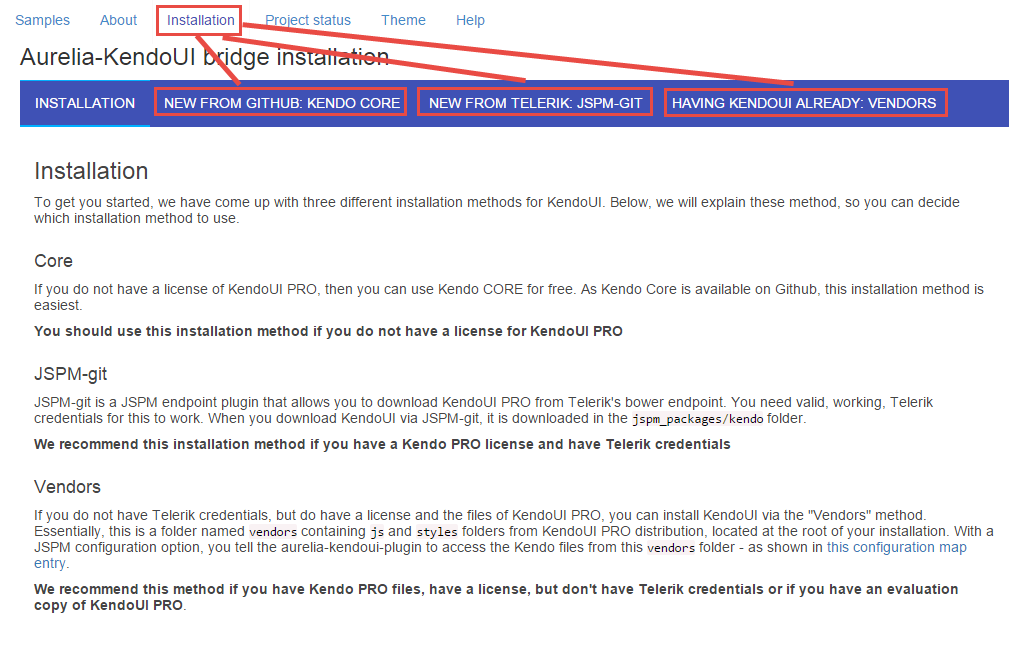
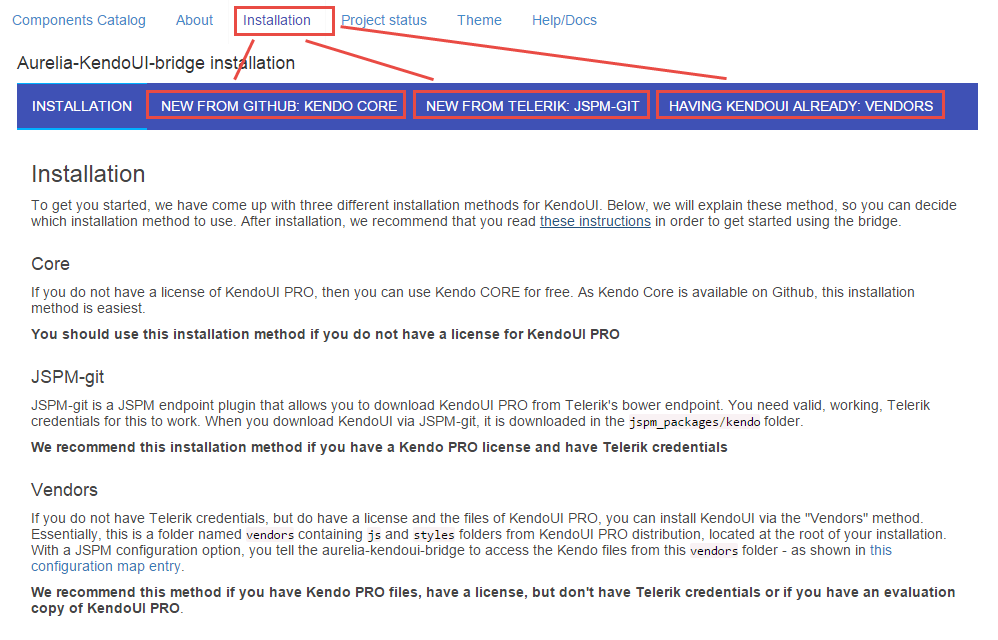
chore(sample help)
Update online help pages to fit the current look and feel

diff --git a/sample/src/help/docs/about-this-application/components-catalog.md b/sample/src/help/docs/about-this-application/components-catalog.md
@@ -1,11 +1,10 @@
 <br>
 ### 3. Catalog of KendoUI controls as Aurelia components.
-<br>
+
 This is the most likely fashion this application is being used. Invoked via URL: **<a href="http://aurelia-ui-toolkits.github.io/demo-kendo">http://aurelia-ui-toolkits.github.io/demo-kendo</a>** the application renders the view shown below, which shows the likely most interesting control **grid** by default.
 
-<br>
 <p align=center>
-  <img src="http://i.imgur.com/WEdRlxo.png"></img>
+  <img src="http://i.imgur.com/3AWmKbp.png"></img>
 <br>
   Image 1
 </p>
@@ -15,9 +14,8 @@ This is the most likely fashion this application is being used. Invoked via URL:
 The click on **Samples** menu item (as shown on Image 1 above) results with the Aurelia KendoUI Controls Catalog "landing" (default) page which depicts the KendoUI basic grid sample (again as shown on Image 1 above). In addition to rendering the grid, the Aurelia KendoUI Controls Catalog also shows the **Samples Toolbar**, which shows all categories of controls, with the **MOST POPULAR** category being select as default. At the moment, this category has only grid control selected as its own default - which explains why is the click on that category results with the same view as it is rendered initially
 <br>
 <br>
-
 <p align=center>
-  <img src="http://i.imgur.com/toJyBpf.png"></img>
+  <img src="http://i.imgur.com/XOL9VB5.png"></img>
 <br>
   Image 2
 </p>
@@ -29,7 +27,7 @@ Selecting other items from the Samples Toolbar will result with the appearance o
 <br>
 
 <p align=center>
-  <img src="http://i.imgur.com/DrIe47y.png"></img>
+  <img src="http://i.imgur.com/96pFFwU.png"></img>
  <br>
 Image 3
 </p>
@@ -41,7 +39,7 @@ Finally, selecting the **STOCK CHARTS** toolbar item, results with the the view 
 <br>
 
 <p align=center>
-  <img src="http://i.imgur.com/f3FjA60.png"></img>
+  <img src="http://i.imgur.com/bMUXUjL.png"></img>
  <br><br>
 Image 4
 </p>

diff --git a/sample/src/help/docs/about-this-application/installation.md b/sample/src/help/docs/about-this-application/installation.md
@@ -10,12 +10,10 @@ You could already have the KendoUI PRO license, or you plan to download the Kend
 The other two alternatives are variants of the same idea - grab the free copy of a free subset of KendoUI controls set, often referred to as Kendo core. If you want to take the **[Github route](https://github.com/telerik/kendo-ui-core)**, select the NEW FROM GITHUB: KENDO CORE tab. The last alternative described in NEW FROM GITHUB: JSPM-GIT tab handles the case where you want to fetch KendoUI core from **[Telerik's website using bower](http://docs.telerik.com/kendo-ui/intro/installation/bower-install#install-bower-packages)**
 
 The screen shot below depicts the Aurelia-KendoUI-bridge **[Installation page](#/installation)**
-
 <br>
 <br>
-
 <p align=center>
-  <img src="http://i.imgur.com/zzCsWdk.png"></img>
+  <img src="http://i.imgur.com/aYIztzp.png"></img>
  <br><br>
 Image 1
 </p>

diff --git a/sample/src/help/docs/about-this-application/navigation.md b/sample/src/help/docs/about-this-application/navigation.md
@@ -3,11 +3,11 @@
 ### 2. Navigation guide
 <br>
 <br>
-The order of Help Documents sections:
+The order of Help Documents section, outlined on the Image 1 below:
 <br><br>
 
 <p align=center>
-  <img src="http://i.imgur.com/OFHR4Aw.png"></img>
+  <img src="http://i.imgur.com/7a11YNP.png"></img>
 <br>
   Image 1
 </p>

diff --git a/sample/src/help/docs/about-kendoui/why-choose-kendoui.md b/sample/src/help/docs/about-kendoui/why-choose-kendoui.md
@@ -21,5 +21,4 @@ Touch support, easy mobile rendering, responsive capabilities and integration wi
 
 Apply one of the 16 built-in themes, such as High Contrast, SAP Fiori theme or Material Design theme:
 <br>
-
-![](http://i.imgur.com/tH2FU7n.png)
+![](http://i.imgur.com/bPJCkBF.png)
